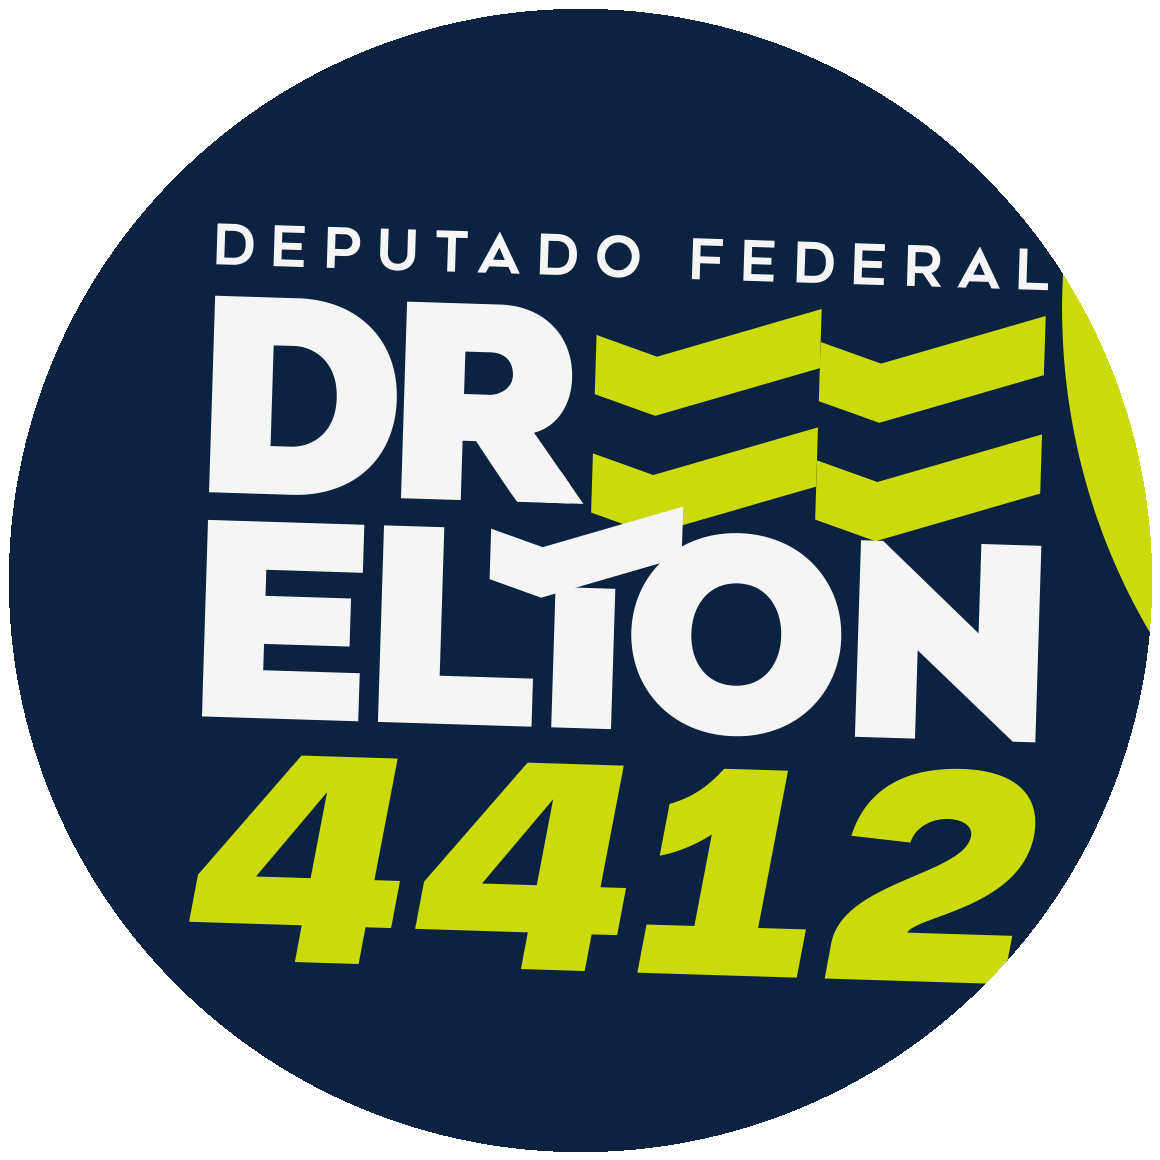
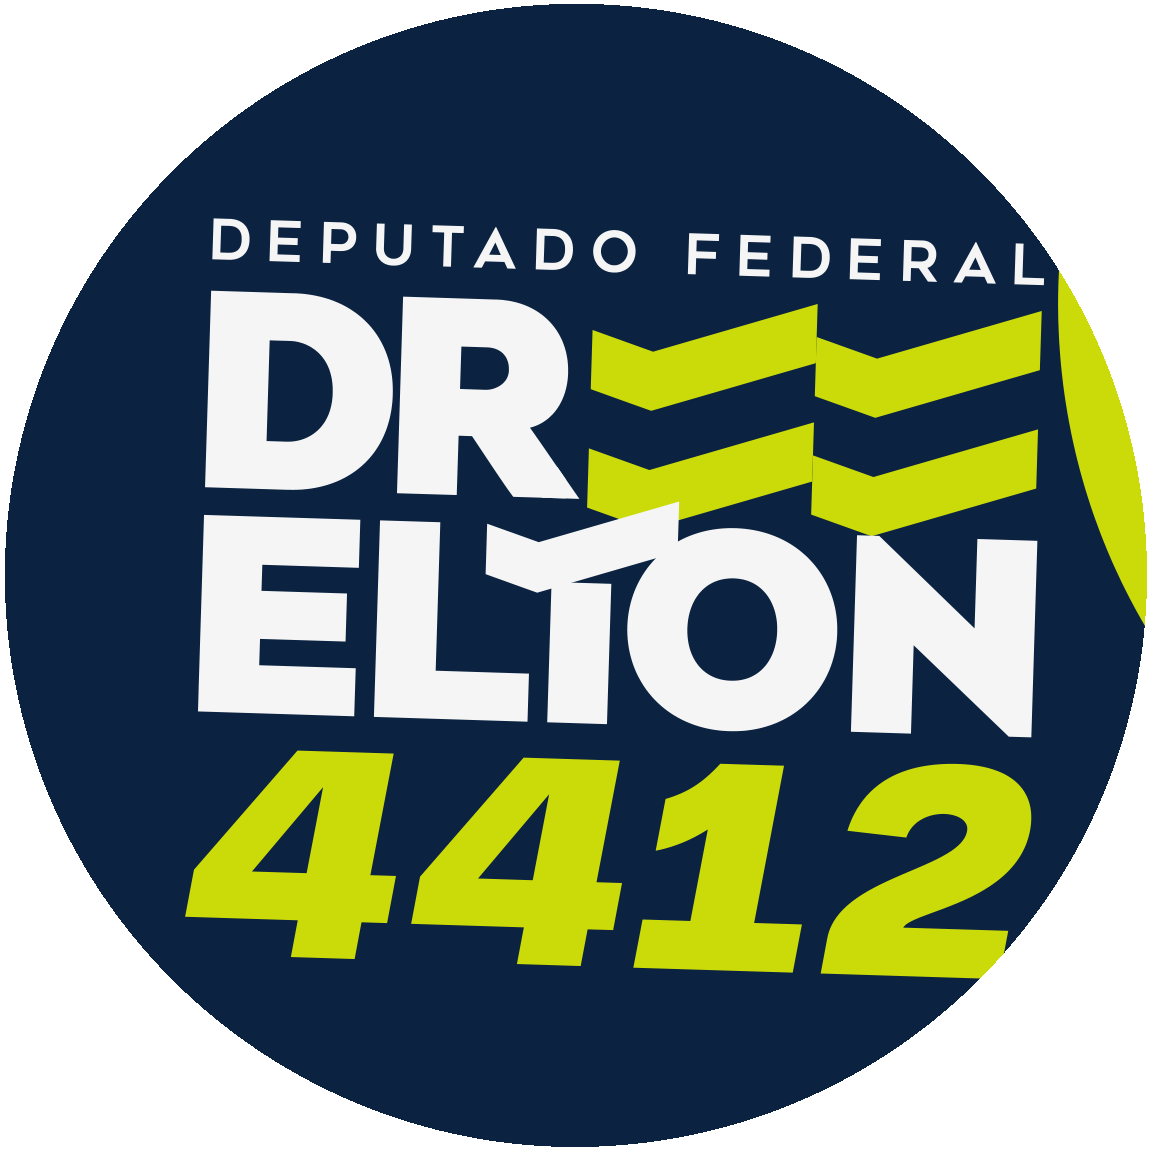
sync colinha: Elton sem tique, etiqueta oficial, foto sem destaque

diff --git a/colinha/style.css b/colinha/style.css
@@ -299,12 +299,10 @@ body:is([data-tema="tozi"], [data-tema="dulce"]) .faixa { display: none; }
   --cx: calc((100% - 4 * var(--gap-d)) / 5);
   display: flex; align-items: center; gap: .6rem;
 }
-/* O visto e um item flex depois da ultima caixa; num cargo de 5 digitos nao
-   sobra largura e ele sai da tela. Com o Dr. Elton isso so acontece enquanto
-   o eleitor digita o estadual, mas quando o cargo travado tem 5 digitos
-   (Tozi, Dulce — deputado estadual) o campo fica permanentemente sem o visto
-   e a pagina rola de lado. Ai a goteira do visto entra na conta das caixas,
-   igual para todos os cargos daquela pagina. */
+/* Goteira a direita nas paginas cujo cargo travado tem 5 digitos (Tozi,
+   Dulce). Nasceu para caber o visto depois do numero; o visto saiu, mas a
+   folga fica: sem ela as caixas de 5 digitos encostam nas duas bordas e a
+   linha perde o respiro que as de 4 e 3 digitos tem. */
 body:has(.campo.travado .digito:nth-child(5)) .campo {
   --cx: calc((100% - 2rem - 4 * var(--gap-d)) / 5);
 }
@@ -367,17 +365,6 @@ body[data-tema="elton"] .rotulo { font-family: var(--titulo); font-weight: 800; 
 .partido { color: var(--rot); font-size: .8em; font-weight: 700; }
 
 .digitos { position: relative; display: flex; gap: var(--gap-d); container-type: inline-size; }
-
-/* O visto em contorno da peca, depois do numero travado do Dr. Elton: ocupa
-   o vao da 5a caixa que o cargo de 4 digitos deixa livre. */
-.tique {
-  flex: none; align-self: center;
-  width: calc(var(--cx) * 1.04); height: auto;
-  margin-left: .1rem;
-  fill: #fdfdf8; stroke: var(--lima); stroke-width: 3.4; stroke-linejoin: round;
-  transform: rotate(-7deg);
-  filter: drop-shadow(0 1px 2px rgba(19, 40, 74, .2));
-}
 
 .digito {
   font-family: var(--titulo);
@@ -701,7 +688,9 @@ body[data-tema="dulce"] .acoes button.secundario { background: var(--bg); }
 body[data-tema="dulce"] .rodape { margin-top: auto; padding-bottom: env(safe-area-inset-bottom); }
 /* A foto do campo pre-definido nao leva destaque verde: fica com o mesmo fio
    fino dos campos livres. */
-body[data-tema="dulce"] .foto-travada { border-color: var(--linha); border-width: 1px; }
+body:is([data-tema="dulce"], [data-tema="elton"]) .foto-travada {
+  border-color: var(--linha); border-width: 1px;
+}
 /* Respiro garantido entre o ultimo botao e a faixa, mesmo com a pagina cheia
    (o margin-top: auto colapsa a zero quando o conteudo enche). */
 body[data-tema="dulce"] .acoes { margin-bottom: 1.4rem; }

diff --git a/colinha/imagem.js b/colinha/imagem.js
@@ -25,10 +25,11 @@ export const TEMAS = {
     // ela falhar ao carregar, cai no circulo desenhado.
     selo: '#13284a', seloAnel: '#13284a', seloImagem: 'marca/selo-elton.png',
     seloSombra: true,
+    fotoSemDestaque: true, // campo pre-definido sem borda verde
     seloNoCorpo: true, // na arte ele flutua na faixa dos senadores
     digitoItalico: true, // Gunterz Bold Italic da peca; Geometos inclinada aqui
     // peca: true liga o que so a peca do Dr. Elton tem — pincel no titulo,
-    // fitas de chevron, tique depois do numero travado, faixa lima no pe.
+    // fitas de chevron e faixa lima no pe.
     peca: true,
     faixa: '#97c53f', faixaFita: '#a6cf45', faixaFita2: '#8dbd35',
     titulo: '"Geometos Neue", "Geometos", system-ui, sans-serif',
@@ -687,36 +688,6 @@ export async function desenhar(colinha, config) {
       }
     }
 
-    // O tique em contorno da peca do Dr. Elton, no vao da 5a caixa que o
-    // numero travado de 4 digitos deixa livre.
-    if (slot.travado && t.peca && slot.digitos === 4) {
-      const x0 = colunaDe(t) + 4 * (CAIXA + GAP) + 10
-      const cyq = topo + CAIXA / 2
-      const k = (CAIXA * 1.02) / 60 // o path do visto vive num viewBox 60x36
-      ctx.save()
-      ctx.translate(x0, cyq - 18 * k)
-      ctx.rotate(-7 * Math.PI / 180)
-      ctx.scale(k, k)
-      ctx.beginPath()
-      ctx.moveTo(2, 15)
-      ctx.lineTo(14, 25)
-      ctx.lineTo(58, 4)
-      ctx.lineTo(58, 14)
-      ctx.lineTo(14, 36)
-      ctx.lineTo(2, 25)
-      ctx.closePath()
-      ctx.shadowColor = 'rgba(19,40,74,.22)'
-      ctx.shadowBlur = 5
-      ctx.shadowOffsetY = 2
-      ctx.fillStyle = '#fdfdf8'
-      ctx.fill()
-      ctx.shadowColor = 'transparent'
-      ctx.lineWidth = 3.4
-      ctx.lineJoin = 'round'
-      ctx.strokeStyle = t.lima ?? t.destaque
-      ctx.stroke()
-      ctx.restore()
-    }
 
     y += ALTURA_LINHA
   }

diff --git a/colinha/colinha-core.js b/colinha/colinha-core.js
@@ -19,18 +19,18 @@ export const CANDIDATOS = {
   'colinha.dreltonai.com.br': {
     nome: 'DR. ELTON', cargo: 6, numero: '4412', partido: 'UNIÃO', tema: 'elton',
     foto: 'elton', // fotos/elton.jpg — foto oficial da campanha, nao vem do TSE
-    // A peca impressa ja traz o governador preenchido (Tarcisio, 10). Sugestao
-    // e diferente de travado: o campo comeca com o numero mas segue editavel,
-    // e o nome continua vindo do dataset TSE como em qualquer campo livre.
-    sugestao: { governador: '10' },
+    // A peca impressa dele ja traz o governador (Tarcisio, 10). Fixo, como na
+    // colinha da Dulce: o slot nao existe no estado, entao nao ha caminho de
+    // escrita por URL nem por localStorage. Nome e foto seguem do TSE.
+    fixos: { governador: '10' },
   },
   // Numero confirmado pelo santinho impresso 7x10 da campanha (15/08/2026).
   'colinhavirtual.dreltonai.com.br': {
     nome: 'PROFESSOR TOZI', cargo: 7, numero: '44447', partido: 'UNIÃO', tema: 'tozi',
     foto: 'tozi',
-    // Como na colinha da Dulce: Dr. Elton (peca conjunta) e o governador ja
-    // vem preenchidos. Sugestao = editavel; o nome resolve pelo dataset TSE.
-    sugestao: { federal: '4412', governador: '10' },
+    // A peca conjunta dele traz o Dr. Elton e o governador impressos, igual a
+    // da Dulce — e fixos pelo mesmo motivo: o eleitor nao muda nenhum dos dois.
+    fixos: { federal: '4412', governador: '10' },
   },
   // O site do Tozi embute a colinha em /colinha/ (site-tozi, deploy Vercel).
   // Sem estes aliases o hostname dele cairia no PADRAO e abriria a colinha

diff --git a/colinha/app.js b/colinha/app.js
@@ -92,15 +92,6 @@ function linhaHTML(slot) {
     (_, i) => `<span class="digito" id="d-${slot.id}-${i}" aria-hidden="true"></span>`,
   ).join('')
 
-  // O tique da peca do Dr. Elton: o visto em contorno depois do 4412, no vao
-  // que o cargo de 4 digitos deixa na grade de 5. So no campo travado dele —
-  // as pecas do Tozi e da Dulce nao trazem o tique.
-  const tique = travado && config.tema === 'elton'
-    ? `<svg class="tique" viewBox="-4 -6 68 48" aria-hidden="true">
-         <path d="M2 15 L14 25 L58 4 L58 14 L14 36 L2 25 Z"/>
-       </svg>`
-    : ''
-
   // A foto e o botao que abre a busca por nome. No campo travado ela so
   // mostra a pessoa, nao clica — ninguem troca o federal por caminho nenhum.
   const foto = travado
@@ -116,7 +107,7 @@ function linhaHTML(slot) {
           <span>${slot.rotulo}</span><span class="nome" id="nome-${slot.id}" aria-live="polite"></span>
         </p>
         <div class="digitos">
-          ${caixas}${tique}
+          ${caixas}
           <input class="entrada" id="input-${slot.id}" name="${slot.id}"
                  type="text" inputmode="numeric" pattern="[0-9]*"
                  maxlength="${slot.digitos}"
